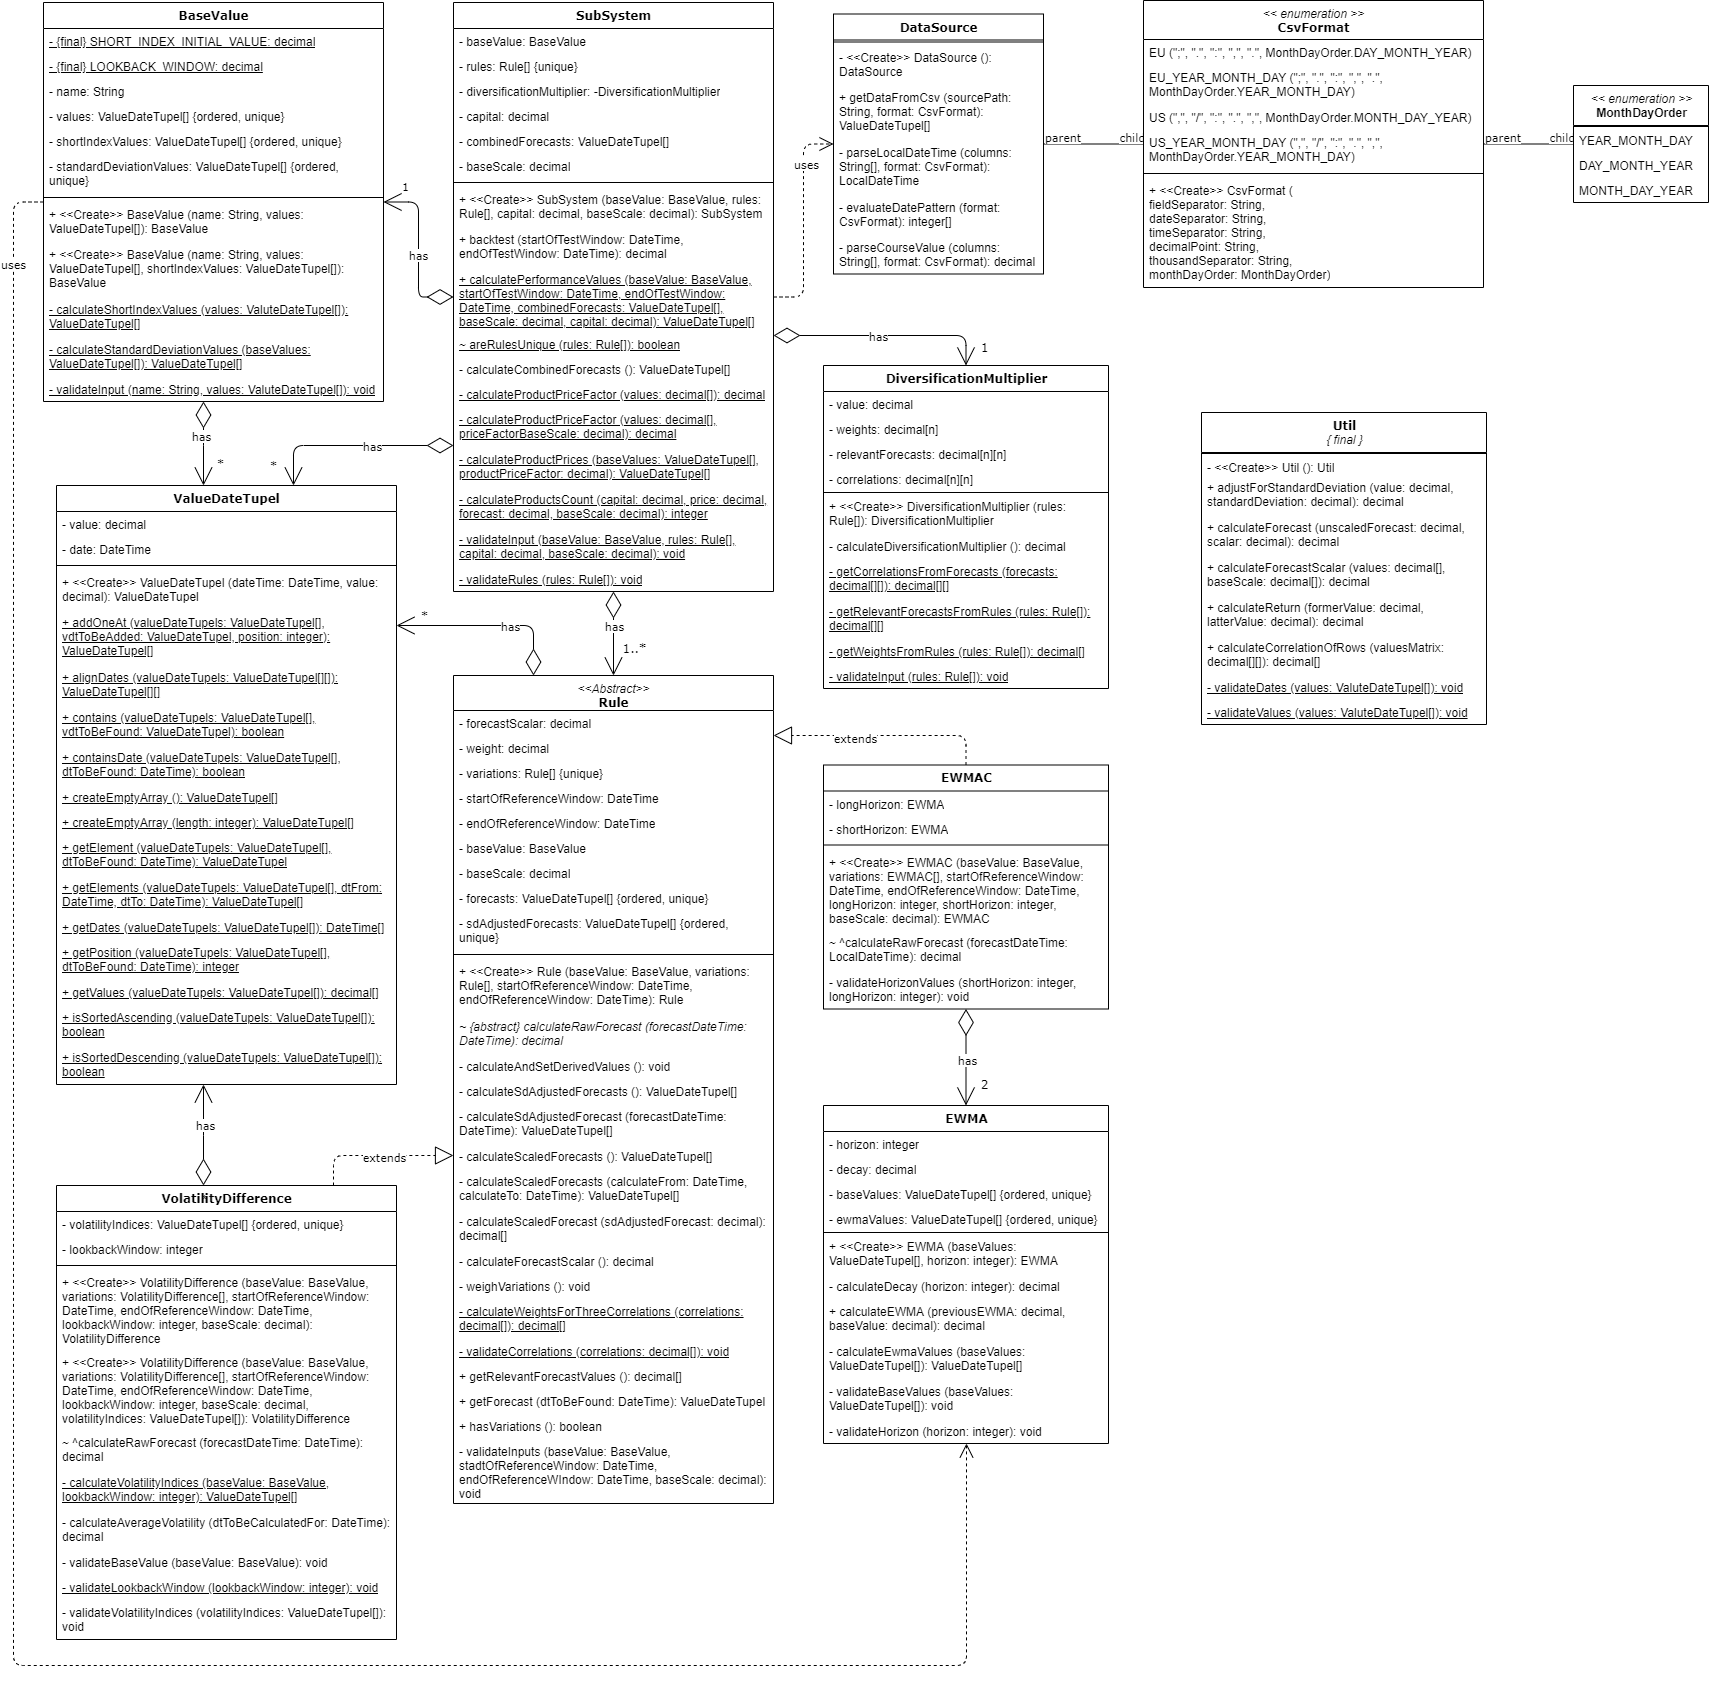
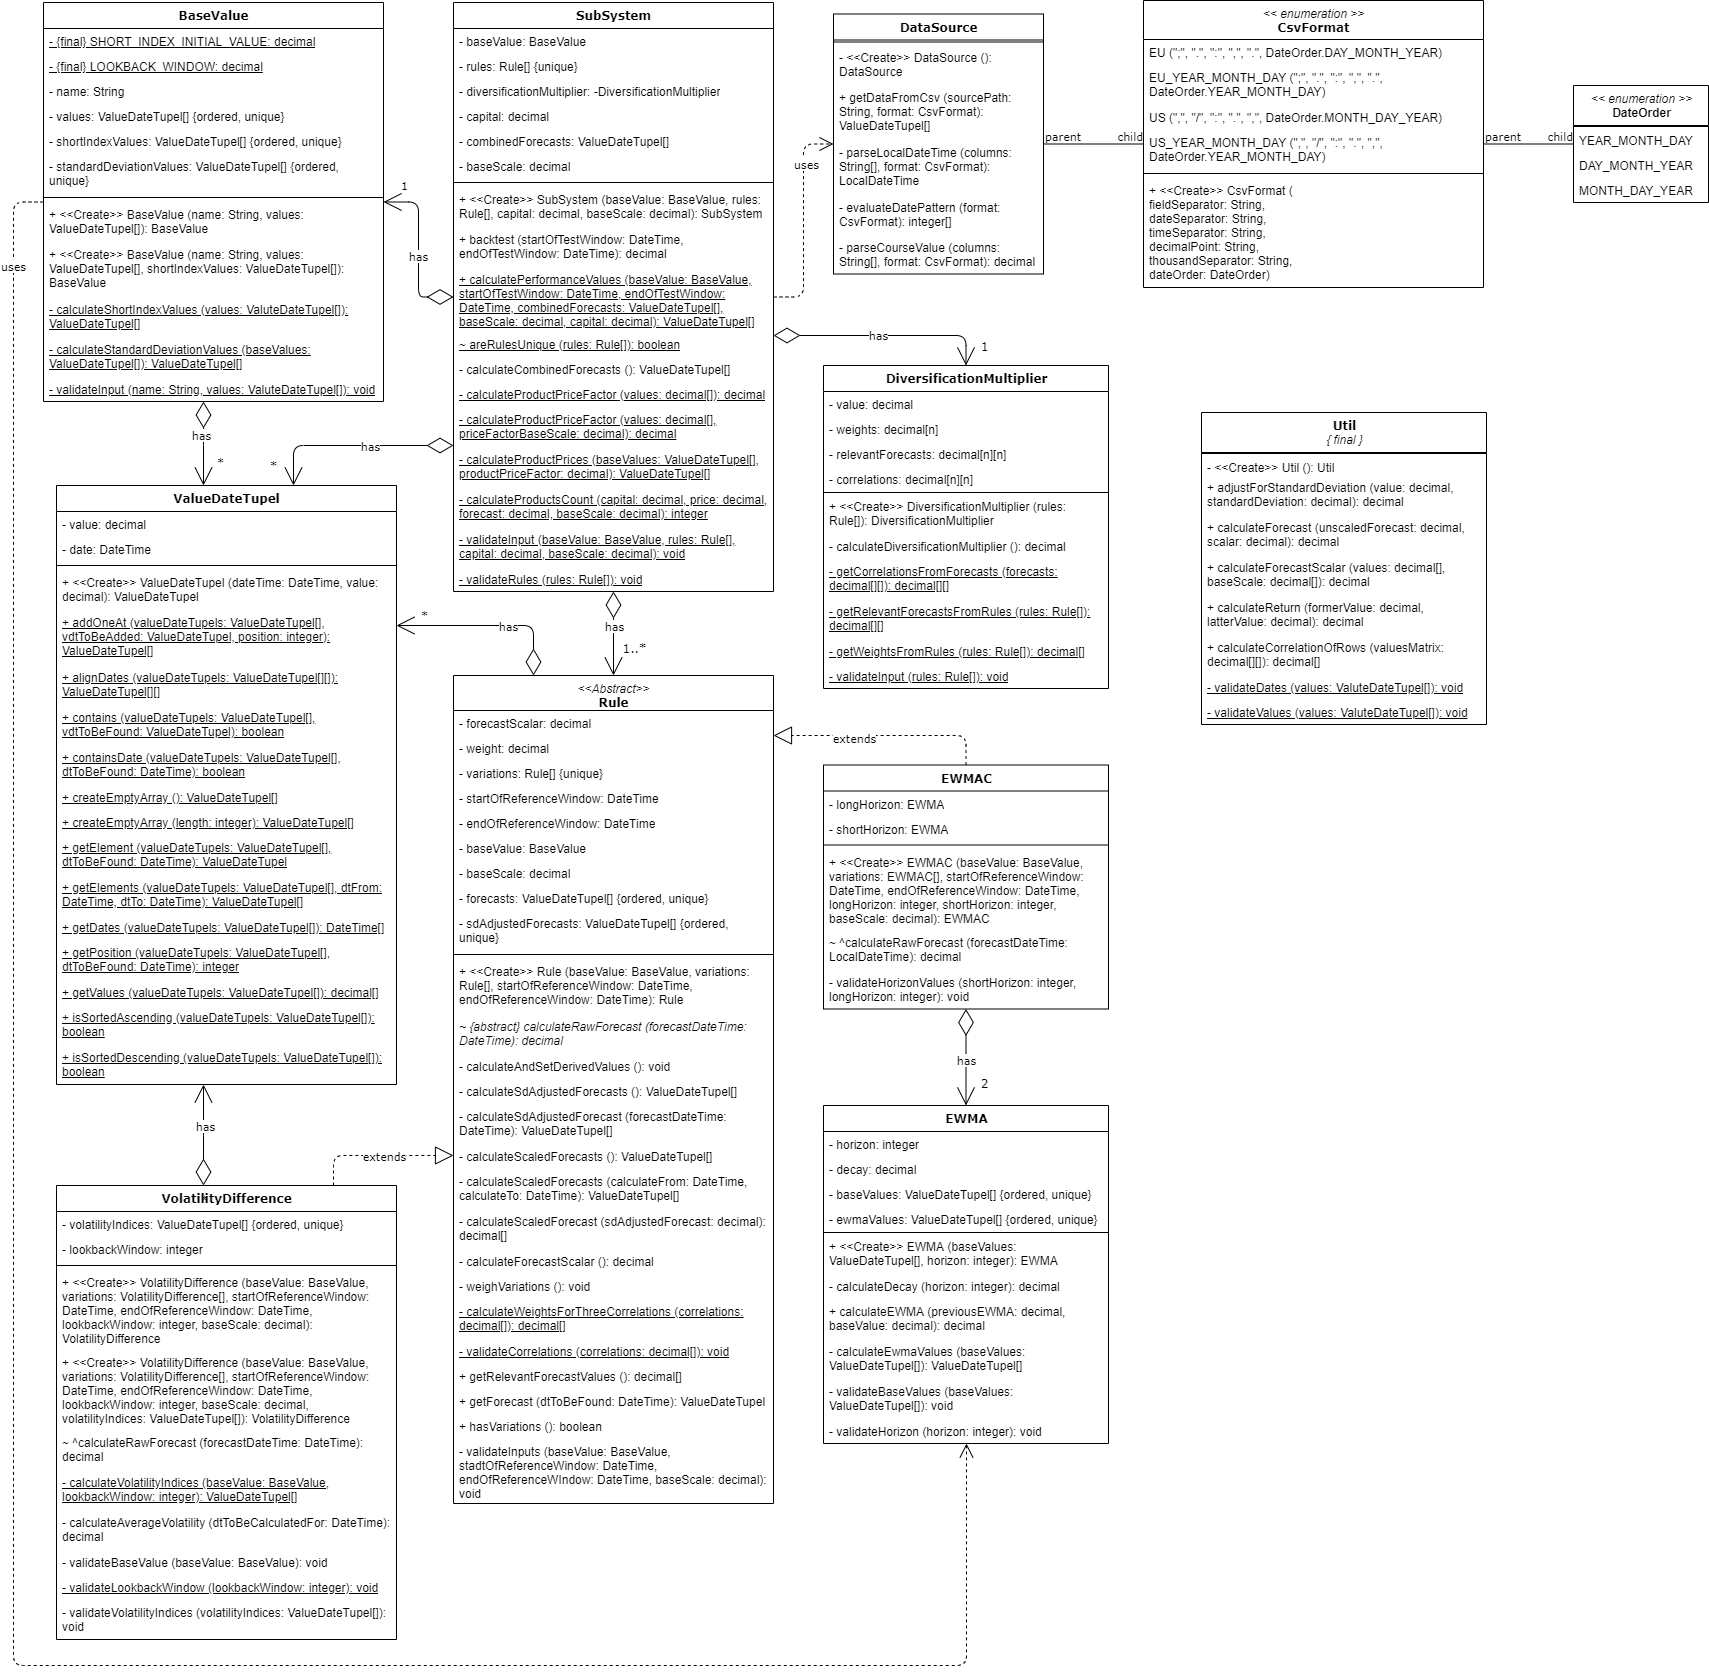
MonthDayOrder -> DateOrder

diff --git a/Tradingsystem/src/main/java/de/rumford/tradingsystem/helper/CsvFormat.java b/Tradingsystem/src/main/java/de/rumford/tradingsystem/helper/CsvFormat.java
@@ -9,26 +9,26 @@ package de.rumford.tradingsystem.helper;
  *
  */
 public enum CsvFormat {
-	EU(";", ".", ":", ",", ".", MonthDayOrder.DAY_MONTH_YEAR),
-	EU_YEAR_MONTH_DAY(";", ".", ":", ",", ".", MonthDayOrder.YEAR_MONTH_DAY),
-	US(",", "/", ":", ".", ",", MonthDayOrder.MONTH_DAY_YEAR),
-	US_YEAR_MONTH_DAY(",", "/", ":", ".", ",", MonthDayOrder.YEAR_MONTH_DAY);
+	EU(";", ".", ":", ",", ".", DateOrder.DAY_MONTH_YEAR),
+	EU_YEAR_MONTH_DAY(";", ".", ":", ",", ".", DateOrder.YEAR_MONTH_DAY),
+	US(",", "/", ":", ".", ",", DateOrder.MONTH_DAY_YEAR),
+	US_YEAR_MONTH_DAY(",", "/", ":", ".", ",", DateOrder.YEAR_MONTH_DAY);
 
 	private final String fieldSeparator;
 	private final String dateSeparator;
 	private final String timeSeparator;
 	private final String decimalPoint;
 	private final String thousandsSeparator;
-	private final MonthDayOrder monthDayOrder;
+	private final DateOrder dateOrder;
 
 	CsvFormat(String fieldSeparator, String dateSeparator, String timeSeparator, String decimalPoint,
-			String thousandSeparator, MonthDayOrder monthDayOrder) {
+			String thousandSeparator, DateOrder dateOrder) {
 		this.fieldSeparator = fieldSeparator;
 		this.dateSeparator = dateSeparator;
 		this.timeSeparator = timeSeparator;
 		this.decimalPoint = decimalPoint;
 		this.thousandsSeparator = thousandSeparator;
-		this.monthDayOrder = monthDayOrder;
+		this.dateOrder = dateOrder;
 	}
 
 	/**
@@ -72,9 +72,9 @@ public enum CsvFormat {
 	}
 
 	/**
-	 * @return monthDayOrder CsvFormat
+	 * @return dateOrder CsvFormat
 	 */
-	public MonthDayOrder getMonthDayOrder() {
-		return monthDayOrder;
+	public DateOrder getMonthDayOrder() {
+		return dateOrder;
 	}
 }

diff --git a/Tradingsystem/src/main/java/de/rumford/tradingsystem/helper/DataSource.java b/Tradingsystem/src/main/java/de/rumford/tradingsystem/helper/DataSource.java
@@ -184,11 +184,11 @@ public class DataSource {
 		int monthPosition;
 		int dayPosition;
 		int yearPosition;
-		if (format.getMonthDayOrder() == MonthDayOrder.DAY_MONTH_YEAR) {
+		if (format.getMonthDayOrder() == DateOrder.DAY_MONTH_YEAR) {
 			dayPosition = 0;
 			monthPosition = 1;
 			yearPosition = 2;
-		} else if (format.getMonthDayOrder() == MonthDayOrder.MONTH_DAY_YEAR) {
+		} else if (format.getMonthDayOrder() == DateOrder.MONTH_DAY_YEAR) {
 			dayPosition = 1;
 			monthPosition = 0;
 			yearPosition = 2;

diff --git a/Tradingsystem/src/main/java/de/rumford/tradingsystem/helper/DateOrder.java b/Tradingsystem/src/main/java/de/rumford/tradingsystem/helper/DateOrder.java
@@ -4,6 +4,6 @@ package de.rumford.tradingsystem.helper;
  * @author Max Rumford
  *
  */
-public enum MonthDayOrder {
+public enum DateOrder {
 	YEAR_MONTH_DAY, DAY_MONTH_YEAR, MONTH_DAY_YEAR;
 }
